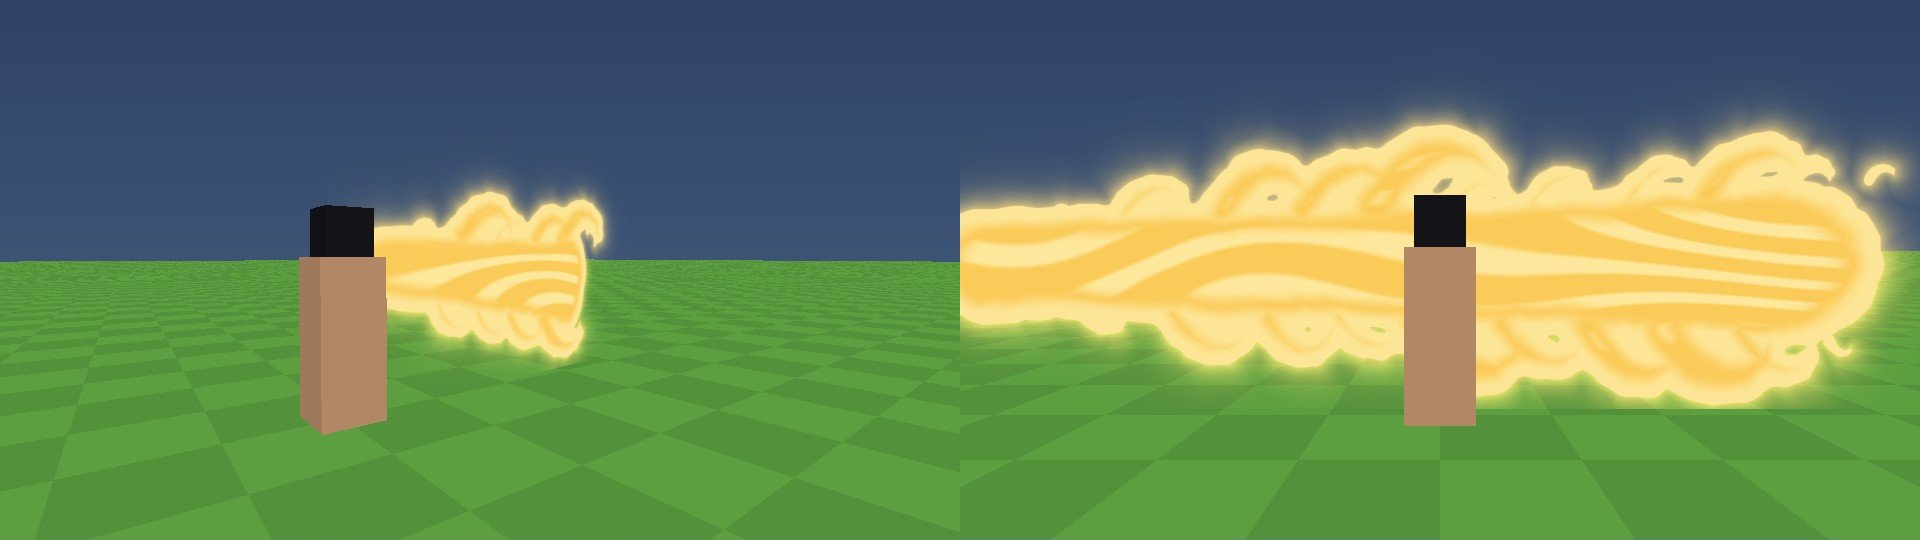
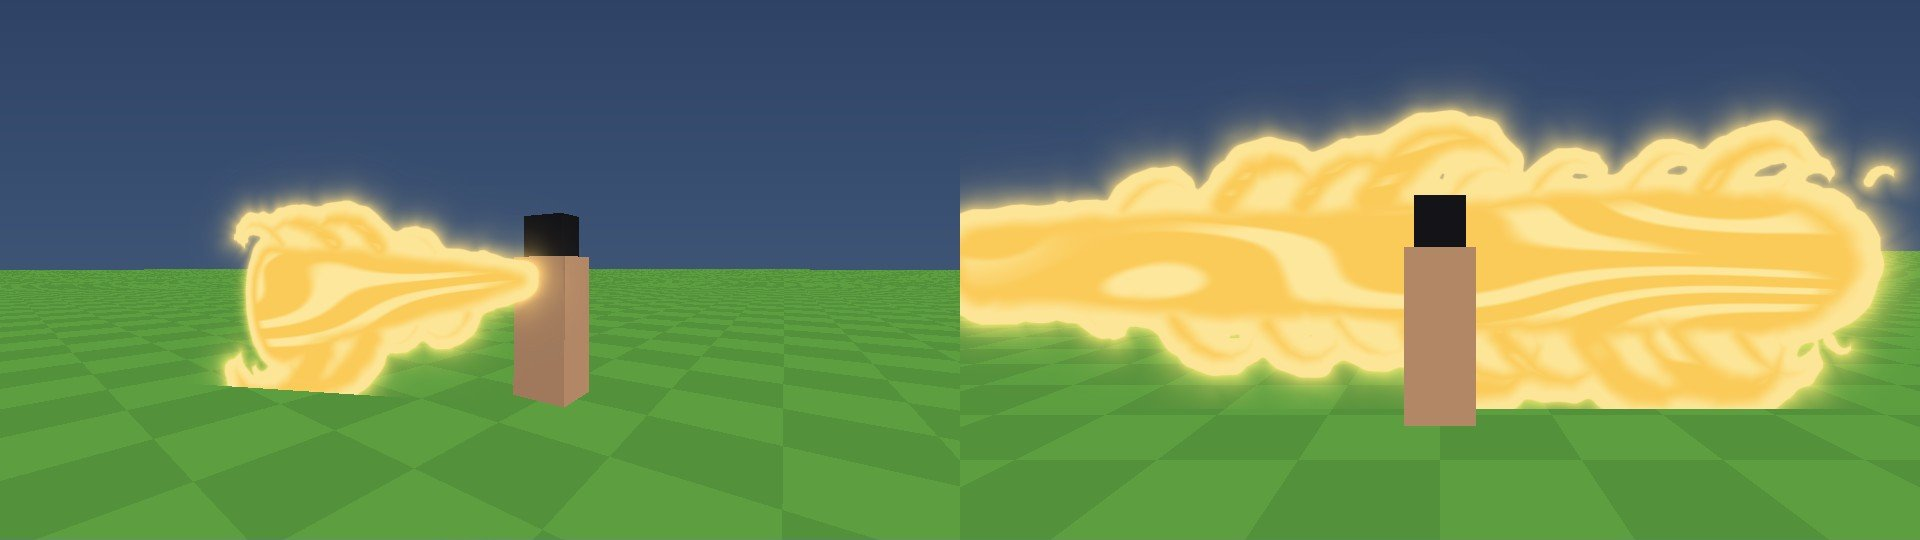
Mera anime: St. Elmo fino en la mano y con vetas de mármol, estelas del Hiken lisas, filo del muro inclinado y llamas del cuerpo hacia arriba
Claude-Session: https://claude.ai/code/session_01TTf7fnrStK2iXDsozaVCTJ

Changed region(s): [[0.0, 0.1481, 0.9688, 0.8], [0.9688, 0.2963, 1.0, 0.3259]]

diff --git a/docs/estilo-anime.md b/docs/estilo-anime.md
@@ -116,8 +116,10 @@ Paleta de cada forma cuando `VolStyle.y` es 0: bola 2 (el sol, 6), puño 1, colu
   centro del tramo del centro del muro entero, a lo largo y con signo. `VolStyle.z` (el segundo número de
   `MeraVolumes.palette(3, …)`) aquí no es el ancho del borde: es el medio largo del muro entero. Con esos dos
   datos y la misma semilla, varios tramos seguidos dibujan una sola cortina sin costuras, y los extremos del muro
-  bajan hasta el suelo en llamas: en los 4 últimos bloques de cada lado la altura cae en rampa hasta casi nada, así el
-  lado se ve inclinado y en llamas, como el filo del muro en el 2:46 (con 2,2 bloques se veía un corte vertical). Si `VolStyle.z` es 0, el tramo se dibuja como un muro entero él solo. No hace
+  bajan hasta el suelo en llamas: en los 2,5 últimos bloques de cada lado (y nunca más de 0,45 del medio largo del
+  muro entero) la altura cae en rampa recta hasta casi nada, así el lado se ve inclinado y en llamas, como el filo del
+  muro en el 2:46 (con la rampa curva, que caía de golpe al final, el lado de un muro alto se veía como un corte
+  vertical; y con una rampa larga en un muro corto, el muro entero era un triángulo). Si `VolStyle.z` es 0, el tramo se dibuja como un muro entero él solo. No hace
   falta que los tramos se monten: cada uno llega justo hasta su vecino. Visto de cerca (2:44, con cada vuelta de
   0,9 bloques ocupando más de 0,16 radianes desde la cámara, es decir a menos de unos 5 bloques), las láminas de
   fuera llevan además otra tanda de contornos más menudos y quebrados, como rayos pálidos sobre el dorado, y las
@@ -149,21 +151,24 @@ Paleta de cada forma cuando `VolStyle.y` es 0: bola 2 (el sol, 6), puño 1, colu
   visto a lo largo, era una semilla); va con `nearFade` 0,45.
 - **Chorro (5) con la paleta 3: la banda dorada de St. Elmo** (2:08,5-2:10,5). En anime no se recorre como un
   volumen: es un dibujo plano en una lámina que contiene el eje del chorro y mira a la cámara. Una cuña dorada que
-  sale de la mano con el grosor `prm.z` (en partes del final), se abre hasta un radio entero y acaba redonda; por
+  sale de la mano con el grosor `prm.z` (en partes del final), se abre deprisa al principio y luego casi igual hasta un
+radio entero (1 − (1 − v)^2,2) y acaba redonda; el ancho ondula despacio a lo largo (±18 %); por
   los cantos de arriba y de abajo, olas: brazos gordos que salen del canto inclinados hacia fuera de la mano y se
   rizan hacia delante como una ola que rompe, con el hueco de cielo entre una y otra, que nacen cerca de la mano y
   corren hacia fuera creciendo (una cada 0,5 radios de largo, entre 3 y 12 por canto, de tamaños muy distintos y más
   finas que largas: crestas que se rizan, no bolitas de nube; las del final, más pequeñas, para que no parezca una
   pinza). En la mano no acaba en un corte: acaba redonda (la mano la tapa). Dorada por dentro, pálida `#fdeaa3` junto
-  al contorno y en vetas largas y onduladas que corren a lo largo del chorro, se rizan en gancho como agua revuelta,
-  van a trozos y se arrastran hacia fuera (antes las vetas seguían el contorno y de cerca dibujaban una lágrima). 0,65 para la banda ancha del
+  al contorno y en vetas largas y onduladas que corren a lo largo del chorro, se rizan en gancho como agua revuelta
+  (como mármol: muy torcidas, no franjas paralelas de tigre), van a trozos y se arrastran hacia fuera (antes las vetas seguían el contorno y de cerca dibujaban una lágrima). 0,65 para la banda ancha del
   barrido (largo 9 y radio 1,15 a 1,5), que es casi igual de gruesa de punta a punta. La llama del antebrazo
   mientras carga (2:09) es este mismo chorro, corto, que sale de la mano hacia atrás y hacia fuera del cuerpo (largo
-  3,4, radio 1,1 y `prm.z` 0,55: en el 2:09 ya sale ancha de la mano; nunca hacia el hombro: entonces cruzaba el cuerpo y se veía una salchicha dorada
+  3,4, radio 1,1 y `prm.z` 0,30, y el origen un cuarto de bloque detrás de la mano: con 0,55 salía tan ancha
+  junto al cuerpo que tapaba a Ace; nunca hacia el hombro: entonces cruzaba el cuerpo y se veía una salchicha dorada
   alrededor de Ace). Antes era el chorro recorrido, una salchicha lisa con cuatro líneas; una fila de bolas con la
   paleta 18 se veía como una oruga de discos. Referencia del banco: `docs/banco/st-elmo.jpg`.
 - **Lanza (7)**: un trazo largo y limpio que se abre poco a poco desde una punta afilada, con dos rayas sueltas al
-  lado. (Las estelas del Hiken, paleta 14, van sin ellas.) `prm.z` = 0: afilada por delante (las lanzas de Shiranui, 2:11). `prm.z` = 1: afilada por detrás y ancha por
+  lado. (Las estelas del Hiken, paleta 14, van sin ellas y apenas onduladas: 0,6 radios de vaivén con ondas largas, de
+  unos 17 radios; con 1,3 radios y ondas de 8 se retorcían como espaguetis y desde abajo se veía una maraña.) `prm.z` = 0: afilada por delante (las lanzas de Shiranui, 2:11). `prm.z` = 1: afilada por detrás y ancha por
   delante (las balas de Higan, 0:57). `prm.z` = 2: la columna de St. Elmo (2:11-2:12), afilada por delante pero que
   se abre enseguida (en el primer 30 % del largo) y sigue del mismo ancho hasta atrás; de lado es una raya gorda en
   punta y desde arriba una columna pálida de ancho parejo. El grosor máximo es 1,25 veces `prm.y` y, de punta a punta, la lanza mide 1,55 veces
@@ -242,7 +247,8 @@ Paleta de cada forma cuando `VolStyle.y` es 0: bola 2 (el sol, 6), puño 1, colu
 El fuego que envuelve a Ace cuando arde (2:29-2:31 y 2:53-2:55). En anime no se recorre como un volumen: es un dibujo
 plano en una lámina que pasa por el eje del cuerpo y mira siempre a la cámara. Una masa dorada y lisa detrás del cuerpo
 (de 0,62 de medio ancho, más ancha que el cuerpo) de la que salen dieciséis brazos de fuego gordos (tres de ellos, de
-los pies), de 1,7 a 3,2 bloques de largo, que nacen, crecen hacia fuera y hacia arriba, se rizan en la punta como una ola y se recogen, cada uno con su ciclo de 1,2 a 2 segundos; la orilla va en
+los pies), de 1,7 a 3,2 bloques de largo, que nacen, crecen hacia fuera y hacia arriba (rizándose poco: 1,6 a 3
+radianes de principio a fin; con más, al ser largos, se doblaban hacia abajo como brazos colgando), se rizan en la punta como una ola y se recogen, cada uno con su ciclo de 1,2 a 2 segundos; la orilla va en
 bultos redondos con el surco afilado entre uno y otro, hay huecos de cielo entre los brazos, y todo el contorno lleva
 por dentro una orilla pálida y blanda y por fuera un halo corto. Por dentro, unas pocas vetas pálidas onduladas que
 suben con las llamas y se rizan, a trozos (2:29-2:30; muy juntas parecían rayas de tigre). El cuerpo, que queda delante de la lámina, tapa el
